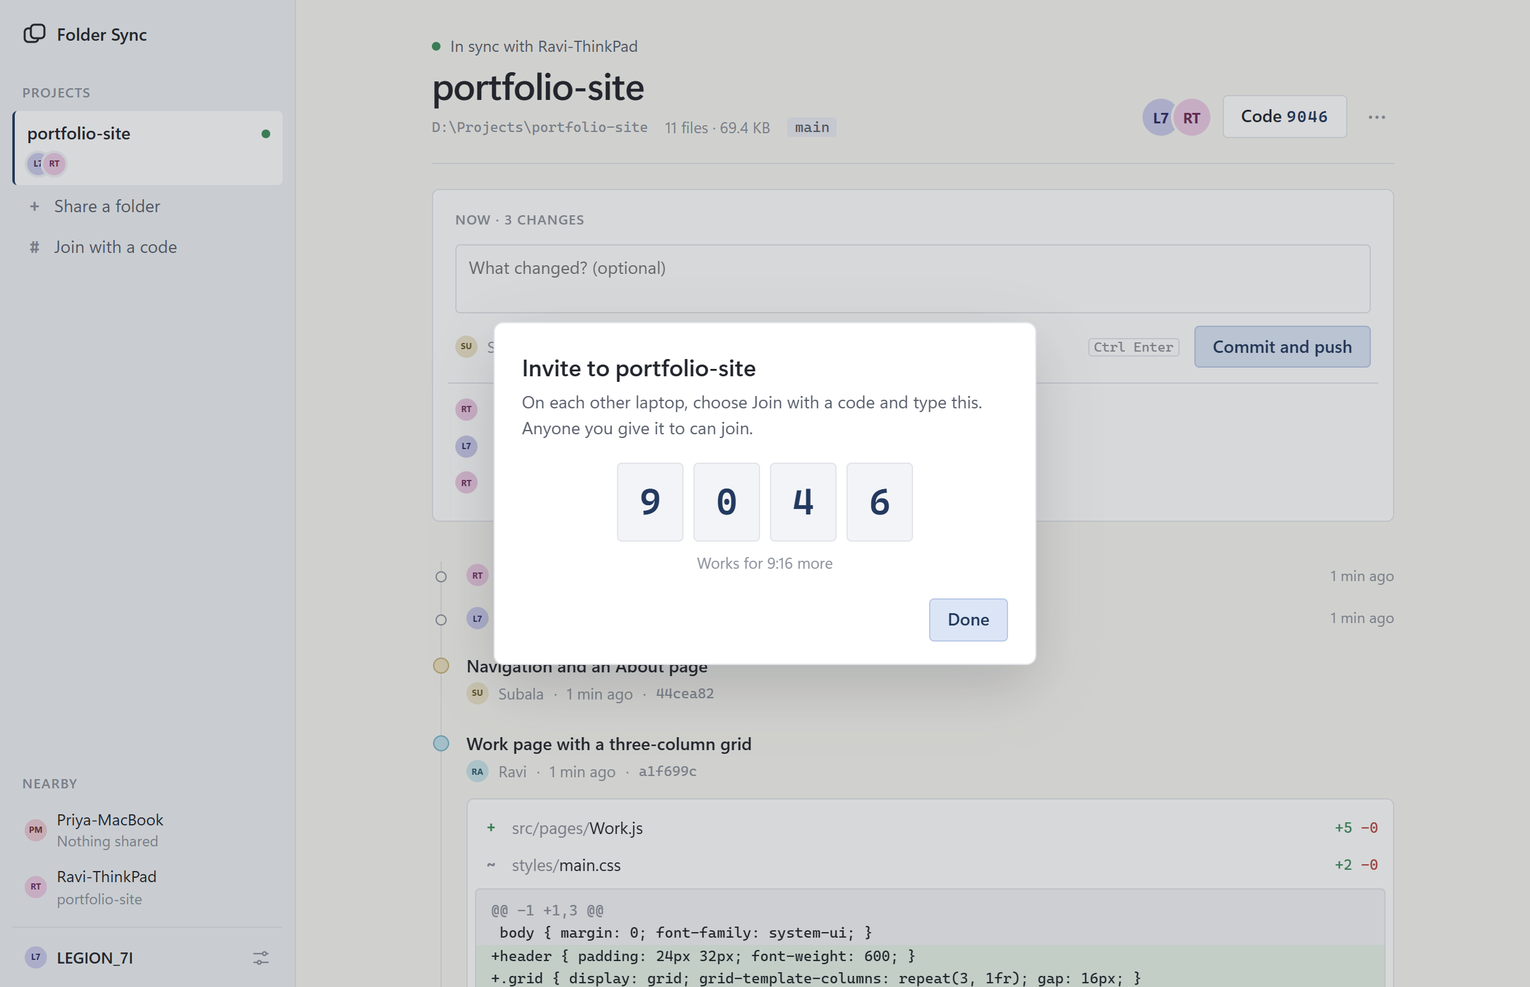
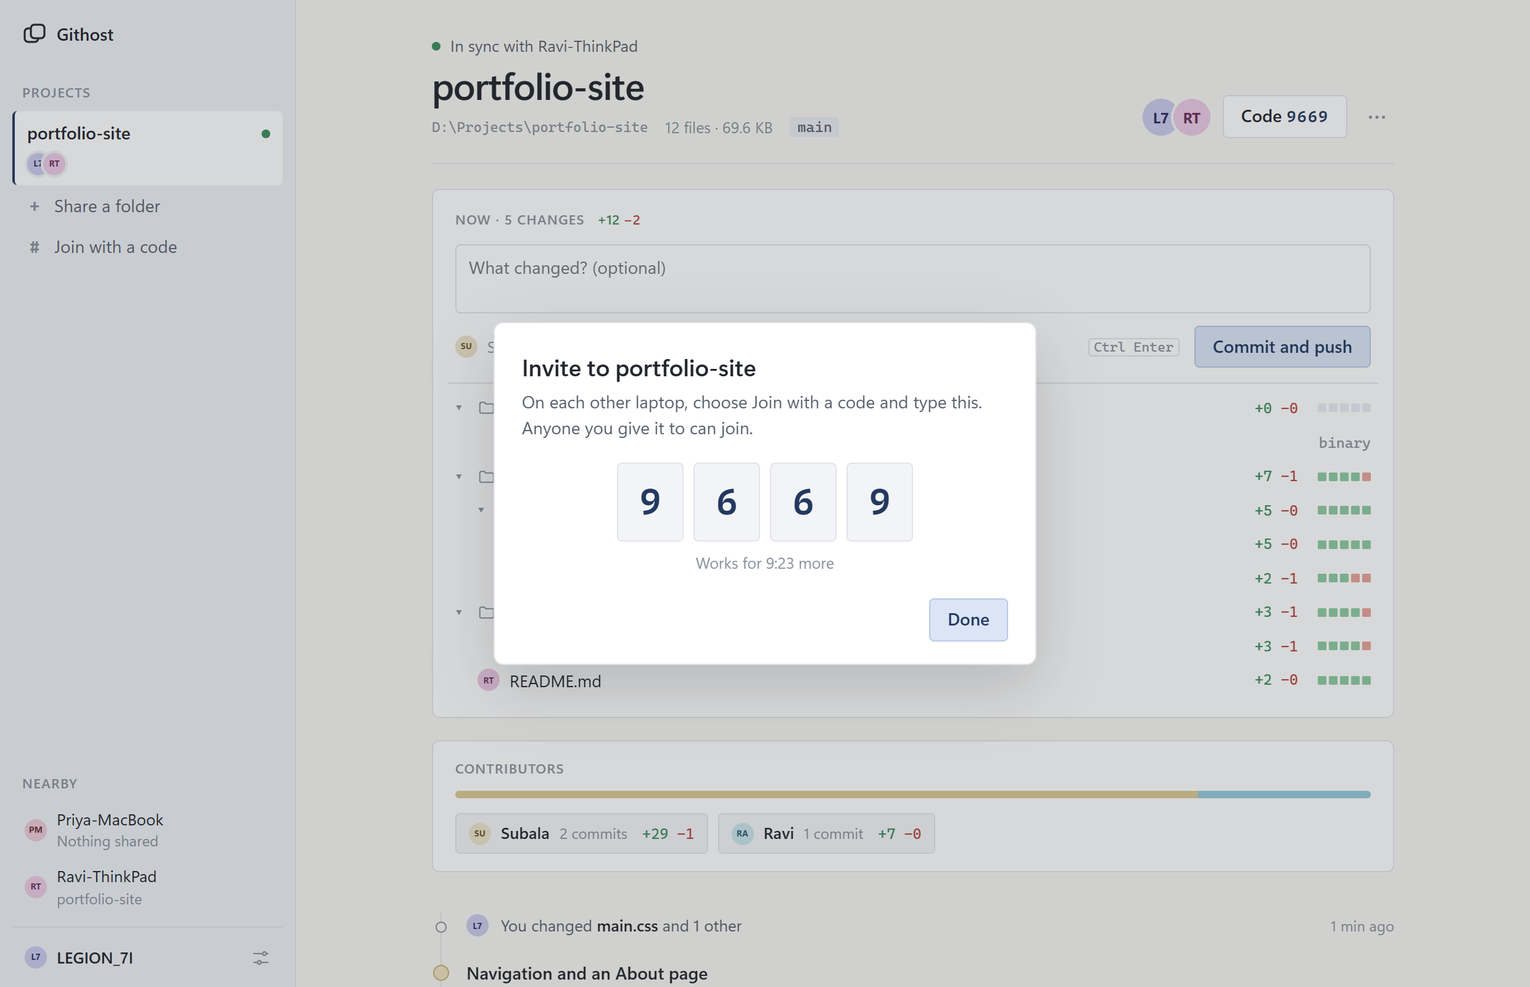
Githost: changes as a tree with lines added and removed, and who did what
The app is now called Githost (githost.exe; its settings move from FolderSync to Githost by
themselves). Changes not committed show as a tree of folders, folding on a click, with each file's
and folder's lines added and removed in green and red and five squares for the share, as GitHub
shows them; a file git does not know yet counts all its lines. Every commit shows its lines and
files, and Contributors shows each person's commits and lines over the whole history with a bar of
their share. The README says how commits keep their own author, and its screenshots are retaken.
Version 0.6.0; it still syncs with 0.5.0.

diff --git a/src/ui.html b/src/ui.html
@@ -3,7 +3,7 @@
 <head>
 <meta charset="utf-8">
 <meta name="viewport" content="width=device-width, initial-scale=1">
-<title>Folder Sync</title>
+<title>Githost</title>
 <style>
 /* One light theme: soft pastel surfaces, square-ish corners, plain buttons. */
 :root {
@@ -90,6 +90,20 @@ kbd { font: 11px var(--mono); color: var(--ink3); border: 1px solid var(--line);
 .file .k { font: 600 12px var(--mono); width: 14px; text-align: center; color: var(--ink3); }
 .file .k.new { color: var(--ok); } .file .k.deleted { color: var(--bad); }
 .dir { color: var(--ink3); }
+.stat { font: 12px var(--mono); white-space: nowrap; margin-left: auto; } .plus { color: var(--ok); } .minus { color: var(--bad); } .stat .dim, .dim { color: var(--ink3); }
+.blocks { display: inline-flex; gap: 2px; margin-left: 8px; } .blocks i { width: 7px; height: 7px; border-radius: 1px; background: var(--soft2); } .blocks i.g { background: #8fcaa2; } .blocks i.r { background: #e6a39b; }
+.tr { display: flex; align-items: center; gap: 8px; padding: 4px 6px 4px calc(6px + var(--d) * 18px); border-radius: 3px; font-size: 13.5px; }
+.tr:hover { background: var(--soft); }
+.tr.folder { color: var(--ink2); cursor: pointer; font-weight: 500; } .tr.folder svg { color: var(--ink3); flex: none; }
+.tr .chev { width: 10px; color: var(--ink3); font: 10px var(--mono); flex: none; }
+.tr .gap { width: 10px; flex: none; }
+.newtag { font-size: 11px; font-weight: 600; border-radius: 3px; padding: 0 5px; } .newtag.new { color: var(--ok); background: #e2f1e6; } .newtag.deleted { color: var(--bad); background: var(--bad-bg); }
+.people { margin-top: 18px; }
+.people .bar2 { display: flex; height: 6px; border-radius: 3px; overflow: hidden; background: var(--soft2); margin: 10px 0 12px; }
+.people .bar2 i { background: hsl(var(--h) 50% 72%); }
+.plist { display: flex; flex-wrap: wrap; gap: 8px; }
+.person { display: flex; align-items: center; gap: 8px; background: var(--soft); border: 1px solid var(--line); border-radius: 4px; padding: 6px 10px; font-size: 13px; }
+.person .c { color: var(--ink3); font-size: 12px; }
 
 .line { position: relative; margin-top: 26px; padding-left: 28px; }
 .line::before { content: ""; position: absolute; left: 7px; top: 6px; bottom: 6px; width: 1px; background: var(--line); }
@@ -150,7 +164,7 @@ pre .a { background: var(--add); } pre .d { background: var(--del); } pre .h { c
 <body>
 <div class="app">
   <aside class="rail">
-    <div class="brand"><svg width="20" height="20" viewBox="0 0 20 20" fill="none" stroke="currentColor" stroke-width="1.6"><rect x="2" y="5" width="11" height="11" rx="3"/><rect x="7" y="2" width="11" height="11" rx="3" fill="var(--rail)"/></svg>Folder Sync</div>
+    <div class="brand"><svg width="20" height="20" viewBox="0 0 20 20" fill="none" stroke="currentColor" stroke-width="1.6"><rect x="2" y="5" width="11" height="11" rx="3"/><rect x="7" y="2" width="11" height="11" rx="3" fill="var(--rail)"/></svg>Githost</div>
     <div class="sec">Projects</div>
     <div id="folders"></div>
     <button class="add" data-do="new"><b>+</b>Share a folder</button>
@@ -187,6 +201,31 @@ const hue = n => { let h = 2166136261; for (const c of String(n)) h = Math.imul(
 const ini = n => { const p = String(n).split(/[^\p{L}\p{N}]+/u).filter(Boolean); return (p.length > 1 ? p[0][0] + p[1][0] : String(n).slice(0, 2)).toUpperCase(); };
 const av = (n, cls = '') => `<span class="av ${cls}" style="--h:${hue(n)}" title="${esc(n)}">${esc(ini(n))}</span>`;
 const who = n => n === S.device.name ? 'You' : n;
+// Lines added and removed, in green and red, with five squares for the share of each (as GitHub does).
+const nums = (a, r) => `<span class="plus">+${(a || 0).toLocaleString()}</span> <span class="minus">−${(r || 0).toLocaleString()}</span>`;
+const blocks = (a, r) => { const t = a + r, g = t ? Math.round(5 * a / t) : 0; return `<span class="blocks">${[0, 1, 2, 3, 4].map(i => `<i class="${!t ? '' : i < g ? 'g' : 'r'}"></i>`).join('')}</span>`; };
+const stat = (a, r) => a == null ? '<span class="stat dim">binary</span>' : `<span class="stat">${nums(a, r)}</span>${blocks(a, r || 0)}`;
+const kindTag = k => k === 'new' || k === 'deleted' ? `<span class="newtag ${k}">${k}</span>` : '';
+const closed = new Set();
+// Files as a tree of folders, each folder with the lines of everything in it. A folder holding only
+// one folder is one row (src/components); clicking a folder folds it.
+function treeHtml(files, row, key) {
+  const root = { dirs: new Map(), files: [] };
+  for (const f of files) {
+    const parts = f.path.split('/'); let n = root;
+    for (const part of parts.slice(0, -1)) { if (!n.dirs.has(part)) n.dirs.set(part, { name: part, dirs: new Map(), files: [] }); n = n.dirs.get(part); }
+    n.files.push({ ...f, name: parts.at(-1) });
+  }
+  const sum = n => [...n.dirs.values()].map(sum).concat(n.files.map(f => [f.added || 0, f.removed || 0])).reduce((x, y) => [x[0] + y[0], x[1] + y[1]], [0, 0]);
+  const by = (a, b) => a.name.localeCompare(b.name);
+  const walk = (n, depth, at) => [...n.dirs.values()].sort(by).map(d => {
+    let name = d.name; while (!d.files.length && d.dirs.size === 1) { d = [...d.dirs.values()][0]; name += '/' + d.name; }
+    const k = key + ':' + at + name, shut = closed.has(k), [a, r] = sum(d);
+    return `<div class="tr folder" data-dir="${esc(k)}" style="--d:${depth}"><span class="chev">${shut ? '▸' : '▾'}</span><svg width="15" height="15" viewBox="0 0 24 24" fill="none" stroke="currentColor" stroke-width="1.7"><path d="M3 7a2 2 0 0 1 2-2h4l2 2h8a2 2 0 0 1 2 2v8a2 2 0 0 1-2 2H5a2 2 0 0 1-2-2z"/></svg><span class="ell">${esc(name)}</span>${stat(a, r)}</div>`
+      + (shut ? '' : walk(d, depth + 1, at + name + '/'));
+  }).join('') + n.files.sort(by).map(f => row(f, depth)).join('');
+  return walk(root, 0, '');
+}
 
 let S, G, L, sel = keep('sel'), open = {}, last = {}, mode = '';
 const folder = () => S?.folders.find(f => f.id === sel);
@@ -215,7 +254,7 @@ function render() {
   }
   if (main.dataset.v !== f.id) {
     main.dataset.v = f.id; last = {}; mode = '';
-    main.innerHTML = '<div class="wrap"><div class="head" id="head"></div><div id="bar"></div><div class="card"><h2 id="nowh"></h2><div id="compose"></div><div class="err" id="gerr"></div><div class="files" id="nowl"></div></div><div class="line" id="line"></div></div>';
+    main.innerHTML = '<div class="wrap"><div class="head" id="head"></div><div id="bar"></div><div class="card"><h2 id="nowh"></h2><div id="compose"></div><div class="err" id="gerr"></div><div class="files" id="nowl"></div></div><div class="people" id="people"></div><div class="line" id="line"></div></div>';
   }
   const [d, text] = statusOf(f), inv = f.invite;
   put($('#head'), `<div class="t"><div class="status ${d === 'bad' ? 'bad' : ''}"><span class="dot ${d}"></span><span class="ell">${esc(text)}</span></div><h1>${esc(f.name)}</h1>
@@ -252,14 +291,24 @@ function renderNow() {
     put($('#ident'), id.name && id.email ? `${av(id.name, 'sm')}<span class="ell">${esc(id.name)}</span><button class="link" data-do="identity">Change</button>` : `<button class="link" data-do="identity">Set the name your commits carry</button>`);
   }
   const acts = G?.repo ? [G.behind ? `<button class="btn ghost" data-do="pull">Get ${plural(G.behind, 'new commit')}</button>` : '', G.ahead ? `<button class="btn ghost" data-do="push">Push ${plural(G.ahead, 'commit')}</button>` : ''].join('') : '';
-  put($('#nowh'), `Now${n ? ` · ${plural(n, 'change')}` : ''}${G?.repo_web ? `<button class="link" style="text-transform:none;letter-spacing:0;font-weight:500" data-url="${esc(G.repo_web)}">${esc(G.repo_name)}</button>` : ''}<span class="acts">${acts}</span>`);
+  const tot = (G?.changes || []).reduce((t, c) => [t[0] + (c.added || 0), t[1] + (c.removed || 0)], [0, 0]);
+  put($('#nowh'), `Now${n ? ` · ${plural(n, 'change')} <span style="letter-spacing:0">${nums(tot[0], tot[1])}</span>` : ''}${G?.repo_web ? `<button class="link" style="text-transform:none;letter-spacing:0;font-weight:500" data-url="${esc(G.repo_web)}">${esc(G.repo_name)}</button>` : ''}<span class="acts">${acts}</span>`);
   put($('#gerr'), esc(G?.error || ''));
-  put($('#nowl'), want === 'commit' ? (G.changes.map(c => `<div class="file">${c.by ? av(c.by, 'sm') : '<span class="av sm" style="opacity:0"></span>'}<span class="k ${c.kind}">${{ new: '+', deleted: '−', renamed: '→' }[c.kind] || '~'}</span><span class="ell" title="${esc(c.path)}">${pathHtml(c.path)}</span></div>`).join('')
+  put($('#nowl'), want === 'commit' ? (treeHtml(G.changes, (c, d) => `<div class="tr" style="--d:${d}" title="${esc(c.path)}${c.by ? ' · ' + esc(who(c.by)) : ''}"><span class="gap"></span>${c.by ? av(c.by, 'sm') : '<span class="av sm" style="opacity:0"></span>'}<span class="ell">${esc(c.name)}</span>${kindTag(c.kind)}${stat(c.added, c.removed)}</div>`, 'now')
     || '<div class="none" style="padding:10px 8px 0">Everything is committed.</div>') : '');
 }
 
 // The project's story: commits, and between them what each laptop changed (grouped, newest first).
+// Who did what: each person's commits and lines over the whole history, and their share as a bar.
+function renderPeople() {
+  const ps = L?.people || [], total = ps.reduce((t, p) => t + p.added + p.removed, 0);
+  put($('#people'), !ps.length ? '' : `<div class="card" style="padding:14px 18px"><h2>Contributors</h2>
+    <div class="bar2">${ps.map(p => `<i style="--h:${hue(p.name)};width:${total ? 100 * (p.added + p.removed) / total : 100 / ps.length}%" title="${esc(p.name)}"></i>`).join('')}</div>
+    <div class="plist">${ps.map(p => `<div class="person">${av(p.name, 'sm')}<b style="font-weight:600">${esc(p.name)}</b><span class="c">${plural(p.commits, 'commit')}</span><span class="stat" style="margin-left:4px">${nums(p.added, p.removed)}</span></div>`).join('')}</div></div>`);
+}
+
 function renderLine(f) {
+  renderPeople();
   const groups = [];
   for (const a of f.activity.filter(a => a.kind !== 'followed')) {
     const verb = a.kind === 'deleted' ? 'deleted' : a.kind === 'conflict' ? 'conflict' : 'changed', name = a.mine ? S.device.name : a.who, g = groups.at(-1);
@@ -278,11 +327,11 @@ function commitHtml(c) {
   if (open.commit === c.hash) {
     const s = open.show;
     body = !s ? '<div class="open none" style="padding:12px 16px">Loading…</div>' : `<div class="open">${s.message.trim() !== c.subject ? `<div class="msg">${esc(s.message.trim())}</div>` : ''}
-      ${s.files.map(x => `<div class="file" data-file="${esc(x.path)}"><span class="k ${x.kind}">${{ new: '+', deleted: '−' }[x.kind] || '~'}</span><span class="ell">${pathHtml(x.path)}</span><span class="num"><span class="a">+${esc(x.added)}</span> <span class="d">−${esc(x.removed)}</span></span></div>${open.file === x.path ? diffHtml(open.diff) : ''}`).join('')}
+      ${treeHtml(s.files.map(x => ({ ...x, added: x.added === '-' ? null : +x.added, removed: x.removed === '-' ? null : +x.removed })), (x, d) => `<div class="tr" data-file="${esc(x.path)}" style="--d:${d};cursor:pointer"><span class="gap"></span><span class="ell">${esc(x.name)}</span>${kindTag(x.kind)}${stat(x.added, x.removed)}</div>${open.file === x.path ? diffHtml(open.diff) : ''}`, c.hash)}
       ${L.repo_web ? `<div style="padding:8px 8px 2px"><button class="link" style="font-size:12.5px" data-url="${esc(L.repo_web)}/commit/${c.hash}">View on GitHub</button></div>` : ''}</div>`;
   }
   return `<div class="ev c" data-c="${c.hash}" style="--h:${hue(c.author)}"><div class="s">${esc(c.subject)}</div>
-    <div class="m">${av(c.author, 'sm')}<span>${esc(c.author)}</span>·<span>${ago(c.at)}</span>·<span class="mono">${c.hash.slice(0, 7)}</span>${c.local ? '<span class="tag">Not pushed</span>' : ''}</div></div>${body}`;
+    <div class="m">${av(c.author, 'sm')}<span>${esc(c.author)}</span>·<span>${ago(c.at)}</span>·<span class="mono">${c.hash.slice(0, 7)}</span>${c.local ? '<span class="tag">Not pushed</span>' : ''}<span class="stat">${nums(c.added, c.removed)} <span class="dim">· ${plural(c.files || 0, 'file')}</span></span>${blocks(c.added || 0, c.removed || 0)}</div></div>${body}`;
 }
 
 function diffHtml(d) {
@@ -369,13 +418,13 @@ function settingsSheet() {
     <div class="set"><div class="k">Laptops by address</div><p style="margin:0 0 10px;font-size:13px">For networks that keep laptops from finding each other. This one is at <span class="mono">${esc(S.addresses.join(', ') || 'no address')}</span>.</p>
       <div class="row"><input class="field mono" id="ad" placeholder="192.168.1.20" spellcheck="false"><button class="btn ghost" id="add">Add</button></div>
       ${S.manual.map(m => `<div class="file"><span class="mono">${esc(m)}</span><button class="link" style="margin-left:auto" data-rm="${esc(m)}">Remove</button></div>`).join('')}</div>
-    <p style="margin:14px 0 0;font-size:12.5px">Folder Sync ${esc(S.version)} keeps syncing after its window closes; opening it again brings the window back.</p>
-    <div class="foot"><button class="btn ghost" id="quit">Quit Folder Sync</button><button class="btn" data-close>Done</button></div>`, (sh, close, fail) => {
+    <p style="margin:14px 0 0;font-size:12.5px">Githost ${esc(S.version)} keeps syncing after its window closes; opening it again brings the window back.</p>
+    <div class="foot"><button class="btn ghost" id="quit">Quit Githost</button><button class="btn" data-close>Done</button></div>`, (sh, close, fail) => {
     const post = (path, body, done) => api(path, body).then(() => { done && toast(done); close(); tick(); }, fail);
     $('#sv', sh).onclick = () => post('/api/device', { name: $('#nm', sh).value }, 'Saved');
     $('#add', sh).onclick = () => post('/api/peers/add', { addr: $('#ad', sh).value }, 'Added');
     sh.querySelectorAll('[data-rm]').forEach(b => b.onclick = () => post('/api/peers/remove', { addr: b.dataset.rm }));
-    $('#quit', sh).onclick = async () => { await api('/api/quit', {}); document.body.innerHTML = '<div class="hello"><h1>Folder Sync<br>has quit.</h1><p>Open it again to keep syncing.</p></div>'; window.close(); };
+    $('#quit', sh).onclick = async () => { await api('/api/quit', {}); document.body.innerHTML = '<div class="hello"><h1>Githost<br>has quit.</h1><p>Open it again to keep syncing.</p></div>'; window.close(); };
   });
 }
 function menu(anchor) {
@@ -395,9 +444,10 @@ async function run(path, body) {
 }
 
 document.addEventListener('click', async e => {
-  const t = e.target.closest('[data-f],[data-do],[data-url],[data-c],[data-file]'), d = t?.dataset;
+  const t = e.target.closest('[data-f],[data-dir],[data-do],[data-url],[data-c],[data-file]'), d = t?.dataset;
   if (!t) return;
   if (d.f) return d.f !== sel && select(d.f);
+  if (d.dir) { closed.has(d.dir) ? closed.delete(d.dir) : closed.add(d.dir); delete last.nowl; return redraw(); }
   if (d.url) return api('/api/open-url', { url: d.url });
   if (d.file !== undefined) {
     open.file = open.file === d.file ? '' : d.file; open.diff = null; redraw();

diff --git a/src/git.rs b/src/git.rs
@@ -299,6 +299,26 @@ pub fn status(f: &Folder) -> Value {
         let by = f.idx.lock().unwrap().entries.get(path).map(|e| app().name_of(&e.by)).unwrap_or_default();
         changes.push(json!({"path": path, "kind": kind, "by": by}));
     }
+    // Lines added and removed since the last commit (from the empty tree when there is none yet);
+    // a file git does not know yet counts all its lines as added. None for a binary file.
+    let base = if g.head.is_empty() { "4b825dc642cb6eb9a060e54bf8d69288fbee4904" } else { "HEAD" };
+    let numstat = if changes.is_empty() { String::new() } else { git(&f.root, &["diff", base, "--numstat", "--no-renames"], false).unwrap_or_default() };
+    let nums: std::collections::HashMap<&str, (Option<u64>, Option<u64>)> = numstat
+        .lines()
+        .filter_map(|l| {
+            let mut p = l.splitn(3, '\t');
+            let (a, d, path) = (p.next()?, p.next()?, p.next()?);
+            Some((path, (a.parse().ok(), d.parse().ok())))
+        })
+        .collect();
+    for c in changes.iter_mut() {
+        let path = c["path"].as_str().unwrap_or("").to_string();
+        let (a, d) = nums.get(path.as_str()).copied().unwrap_or_else(|| match std::fs::read(crate::folder_path(&f.root, &path)) {
+            Ok(b) if b.len() < 4 << 20 && !b.contains(&0) => (Some(b.iter().filter(|&&c| c == b'\n').count() as u64 + u64::from(!b.ends_with(b"\n") && !b.is_empty())), Some(0)),
+            _ => (None, None),
+        });
+        (c["added"], c["removed"]) = (json!(a), json!(d));
+    }
     let id = |k: &str| git(if g.repo { &f.root } else { Path::new(".") }, &["config", k], false).unwrap_or_default();
     let (repo_name, repo_web) = web(&g.remote);
     json!({
@@ -310,15 +330,31 @@ pub fn status(f: &Folder) -> Value {
 
 pub fn log(f: &Folder) -> Value {
     let g = f.git.lock().unwrap().clone();
-    let out = if g.head.is_empty() { String::new() } else { git(&f.root, &["log", "-n", "300", "--format=%H%x1f%an%x1f%at%x1f%s%x1e"], false).unwrap_or_default() };
-    let commits: Vec<Value> = out
-        .split('\x1e')
-        .map(|r| r.trim().split('\x1f').collect::<Vec<_>>())
-        .filter(|p| p.len() == 4)
-        .enumerate()
-        .map(|(i, p)| json!({"hash": p[0], "author": p[1], "at": p[2].parse::<u64>().unwrap_or(0) * 1000, "subject": p[3], "local": (i as u32) < g.ahead}))
-        .collect();
-    json!({"commits": commits, "repo_web": web(&g.remote).1})
+    // Every commit with its size ("3 files changed, 10 insertions(+), 2 deletions(-)"), so each
+    // person's totals cover the whole history; the newest 300 are listed.
+    let out = if g.head.is_empty() { String::new() } else { git(&f.root, &["log", "--shortstat", "--format=%x1e%H%x1f%an%x1f%at%x1f%s"], false).unwrap_or_default() };
+    let mut people: Vec<(String, u64, u64, u64)> = Vec::new();
+    let mut commits = Vec::new();
+    for (i, rec) in out.split('\x1e').filter(|r| !r.trim().is_empty()).enumerate() {
+        let (head, stat) = rec.split_once('\n').unwrap_or((rec, ""));
+        let p: Vec<&str> = head.split('\x1f').collect();
+        if p.len() != 4 {
+            continue;
+        }
+        let count = |word: &str| stat.split(',').find(|s| s.contains(word)).and_then(|s| s.split_whitespace().next()?.parse::<u64>().ok()).unwrap_or(0);
+        let (files, added, removed) = (count("file"), count("insertion"), count("deletion"));
+        match people.iter_mut().find(|x| x.0 == p[1]) {
+            Some(x) => (x.1, x.2, x.3) = (x.1 + 1, x.2 + added, x.3 + removed),
+            None => people.push((p[1].to_string(), 1, added, removed)),
+        }
+        if i < 300 {
+            commits.push(json!({"hash": p[0], "author": p[1], "at": p[2].parse::<u64>().unwrap_or(0) * 1000, "subject": p[3],
+                                "local": (i as u32) < g.ahead, "files": files, "added": added, "removed": removed}));
+        }
+    }
+    people.sort_by_key(|x| std::cmp::Reverse(x.2 + x.3));
+    let people: Vec<Value> = people.iter().map(|(n, c, a, d)| json!({"name": n, "commits": c, "added": a, "removed": d})).collect();
+    json!({"commits": commits, "people": people, "repo_web": web(&g.remote).1})
 }
 
 fn is_hash(c: &str) -> bool {

diff --git a/src/main.rs b/src/main.rs
@@ -1,4 +1,4 @@
-//! Folder Sync: folders kept the same on every laptop on the Wi-Fi, laptop to laptop with nothing
+//! Githost: folders kept the same on every laptop on the Wi-Fi, laptop to laptop with nothing
 //! in between, and a GitHub repository behind each one that anyone commits to with one button.
 #![cfg_attr(all(windows, not(debug_assertions)), windows_subsystem = "windows")]
 mod api;
@@ -127,11 +127,21 @@ macro_rules! log {
 }
 
 fn data_dir() -> PathBuf {
-    if let Ok(a) = std::env::var("APPDATA") {
-        return PathBuf::from(a).join("FolderSync");
+    // Settings from before the app was called Githost move over the first time.
+    let (old, new) = match std::env::var("APPDATA") {
+        Ok(a) => (PathBuf::from(&a).join("FolderSync"), PathBuf::from(a).join("Githost")),
+        Err(_) => {
+            let home = PathBuf::from(std::env::var("HOME").unwrap_or_else(|_| ".".into()));
+            match cfg!(target_os = "macos") {
+                true => (home.join("Library/Application Support/FolderSync"), home.join("Library/Application Support/Githost")),
+                false => (home.join(".config/foldersync"), home.join(".config/githost")),
+            }
+        }
+    };
+    if old.is_dir() && !new.exists() {
+        let _ = fs::rename(&old, &new);
     }
-    let home = PathBuf::from(std::env::var("HOME").unwrap_or_else(|_| ".".into()));
-    home.join(if cfg!(target_os = "macos") { "Library/Application Support/FolderSync" } else { ".config/foldersync" })
+    new
 }
 
 fn main() {
@@ -161,7 +171,7 @@ fn main() {
     };
     store::init(data, port, disc, disc_send);
     let a = store::app();
-    log!("Folder Sync {} as {} on port {}", env!("CARGO_PKG_VERSION"), a.cfg().device_name, port);
+    log!("Githost {} as {} on port {}", env!("CARGO_PKG_VERSION"), a.cfg().device_name, port);
     for fc in a.cfg().folders.clone() {
         a.open_folder(&fc);
     }

diff --git a/src/sync.rs b/src/sync.rs
@@ -18,8 +18,8 @@ use crate::net::{self, Peer, Req};
 use crate::store::{app, order, safe_path, Entry, Folder, Order};
 use crate::{folder_path, hash_copy, hash_file, hex, hmac, log, mtime, now_ms, random, url_encode};
 
-pub const SCRATCH: &str = ".foldersync-tmp";
-const ALWAYS: &[&str] = &[".git", SCRATCH, ".DS_Store", "Thumbs.db", "desktop.ini", "~$*", ".~lock.*#"];
+pub const SCRATCH: &str = ".githost-tmp";
+const ALWAYS: &[&str] = &[".git", SCRATCH, ".foldersync-tmp", ".DS_Store", "Thumbs.db", "desktop.ini", "~$*", ".~lock.*#"];
 
 /// One .gitignore line, with the folder its file is in: it holds only below that folder.
 #[derive(Clone, Debug)]

diff --git a/README.md b/README.md
@@ -1,4 +1,4 @@
-# Folder Sync
+# Githost
 
 Folders kept the same on every laptop on the same Wi-Fi, laptop to laptop with nothing in
 between, and a GitHub repository behind each one that anyone commits to with one button.
@@ -9,9 +9,14 @@ between, and a GitHub repository behind each one that anyone commits to with one
 - **Connect a GitHub repository** once, on any laptop. The others connect to it by themselves.
 - **Commit and push** from any laptop. Everyone's history moves with it, nobody pulls.
 - **History**: every commit with who made it and when, the files it changed, and their diffs.
-- **Changes**: what is not committed yet, and which laptop changed each file.
+- **Changes**, live: what is not committed yet as a tree of folders, with the lines added and
+  removed in each file and folder, and which laptop changed each one.
+- **Contributors**: each person's commits and lines added and removed over the whole history.
+- A commit made on any laptop carries that laptop's own name and email and is pushed with that
+  person's own GitHub sign-in, so GitHub shows who really made it. There is no host: every laptop
+  has the whole folder and its own `.git`.
 
-<img src="docs/images/timeline.png" width="820" alt="A project: what is not committed yet, then commits and what each laptop changed">
+<img src="docs/images/timeline.png" width="820" alt="A project: changes not committed yet as a tree with lines added and removed, and who has done what">
 
 | A commit, its files and a diff | Inviting with a 4-digit code |
 | --- | --- |
@@ -21,7 +26,7 @@ between, and a GitHub repository behind each one that anyone commits to with one
 
 ## Getting started
 
-1. Run `folder-sync.exe`. It opens its own window (Edge or Chrome in app mode).
+1. Run `githost.exe`. It opens its own window (Edge or Chrome in app mode).
 2. Windows asks whether it may use the network: allow it on **Private networks**. Without that,
    other laptops cannot reach this one.
 3. **New shared folder**, choose the folder, and read out the 4-digit code it shows. On the other
@@ -87,5 +92,5 @@ edited on one laptop and deleted on another is kept.
 cargo build --release
 ```
 
-The app is `target/release/folder-sync.exe`. For trying two on one laptop:
+The app is `target/release/githost.exe`. For trying two on one laptop:
 `--data DIR --port N --disc N --disc-send N,M --no-window`.
